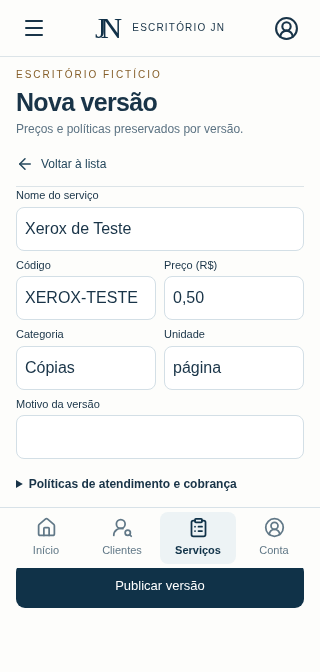
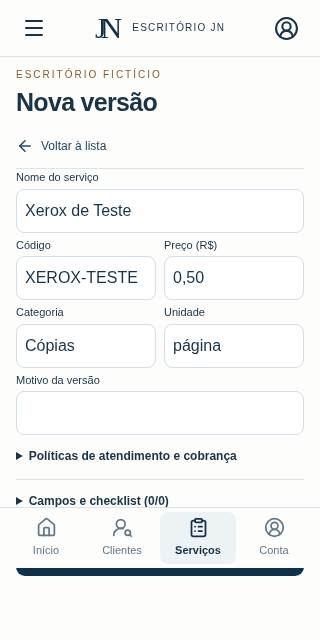
test: registrar validacao integrada e visual da etapa 09

diff --git a/tests/browser/services-public.spec.ts b/tests/browser/services-public.spec.ts
@@ -1,0 +1,12 @@
+import { test, expect } from '@playwright/test';
+
+for(const width of [360,1440])test(`catálogo09 público: rota direta exige login em ${width}px`,async({page})=>{
+ await page.setViewportSize({width,height:width===360?640:900});
+ await page.goto('/servicos');await expect(page).toHaveURL(/\/login(?:\?|$)/);await expect(page.getByLabel('E-mail',{exact:true})).toBeVisible();
+ await expect(page.getByText(/Carregando|Salvando|Aguarde/)).toHaveCount(0);
+ await page.reload();await expect(page).toHaveURL(/\/login(?:\?|$)/);await expect(page.getByLabel('Senha',{exact:true})).toBeVisible();
+});
+test('catálogo09 público: API existe e recusa busca anônima sem ler banco',async({request})=>{
+ const response=await request.post('/api/services/search',{data:{office_id:'11111111-1111-4111-8111-111111111111',query:'',page:1,size:3}});
+ expect(response.status()).toBe(401);expect((await response.json()).error.code).toBe('AUTH_REQUIRED');expect(response.headers()['cache-control']).toContain('no-store');
+});

diff --git a/docs/etapas/fecho-09.md b/docs/etapas/fecho-09.md
@@ -1,6 +1,6 @@
 # Etapa09 — catálogo de serviços, preços e políticas
 
-20/10/2026. Checkpoint: implementação concluída, validação/entrega em andamento. Publicação09 ainda não comprovada. Referências: [cartão/contrato](etapa-09.md), [plano](plano-09.md), [atendimento](../regras/atendimento.md).
+20/10/2026. Checkpoint: implementação e validação local concluídas, entrega em andamento. Publicação09 ainda não comprovada. Referências: [cartão/contrato](etapa-09.md), [plano](plano-09.md), [atendimento](../regras/atendimento.md).
 
 `/servicos` oferece busca paginada3/5, cadastro, publicação de versões, histórico e simulação. Código único por escritório; versão inteira conserva preço em centavos, categoria/unidade, campos/checklist, pessoa/participantes, aprovação/assinatura/quitação, quantidades e políticas de ajuste. Vigência imediata ou futura, sem retroagir/substituir versão. UPDATE/DELETE de versões negados; alteração não recalcula snapshots anteriores.
 
@@ -12,12 +12,14 @@ UI reaproveita shell/cores/tipografia/sidebar e até4atalhos móveis incluindo I
 
 ## Evidências e revisão
 
-- 70Node/API, typecheck e build frontend/servidor passaram no checkpoint; última mudança de CSS ainda em verificação visual final.
+- 70Node/API, typecheck e build frontend/servidor passaram após as alterações.
 - 958SQL (479×2), instalação vazia/migrador sem super/BYPASSRLS, grants/RLS, imutabilidade, vigência futura, arredondamento, quantidade/capacidades, versão obsoleta, rollback de auditoria e corridas de revogação/fronteira de vigência passaram.
-- Auth09 real local3 passou: navegador→Express→GoTrue/PostgREST→SQL, contrato com campos/participantes e funcionário restrito. Regressão final com gestão/operação/renovação em execução.
-- UI09 inicial9 passou; novas regressões de precisão, chaves, isolamento e densidade em validação. Sobreposição acidental de servidores/traces foi interrompida; não contar execuções interrompidas como sucesso. Um seletor de label com opções nativas foi corrigido para combobox acessível.
+- Auth09 real local3 passou: navegador→Express→GoTrue/PostgREST→SQL, contrato com campos/participantes e funcionário restrito. Regressão de22cenários com gestão/operação/quatroperfis/renovação aprovada:21na bateria e1convite SMTP repetido isoladamente após exceder o prazo inicial. Apenas Mailpit local; nenhum e-mail externo.
+- 13UI09 passaram, incluindo precisão, chaves, isolamento, zoom, altura reduzida e densidade. Lista cabe nas quatro larguras; formulário padrão cabe360×640/768×1024/1440×900,320×568 pode exigir rolagem natural curta. Sobreposição acidental de servidores/traces foi interrompida; não contar execuções interrompidas como sucesso. Um seletor de label com opções nativas foi corrigido para combobox acessível.
+- Regressão UI completa:125/127na primeira execução;2casos de vínculos08 passaram na repetição isolada após estabilizar o laboratório. Um deles registrou ERR_NETWORK_CHANGED durante criação/limpeza de rede Docker; não alterar produto para mascarar essa interferência. Total127cenários verificados.
 - Revisão independente identificou2P2 e uma chave de campo classificada inicialmente menor. Esta foi elevada aP2 por bloquear uma sequência válida de edição; os três pontos foram corrigidos com reproduções. [Registro](../evidencias/etapa-09/revisao.json).
 - [Benchmark](../evidencias/etapa-09/benchmark.json):10mil serviços fictícios adicionais,10conexões/300amostras SQL locais; p95 lista772,405ms/detalhe80,669ms/cotação92,883ms. Navegadores/regressões também ativos; não mede rede/API/produção, não éSLA nem promessa de latência zero.
+- 37E2E públicos locais aprovados:36na bateria e1retorno direto360px repetido isoladamente após atraso inicial;3casos novos comprovam `/servicos`→login/reload e API anônima401. [Provas locais](../evidencias/etapa-09/validacao.json).
 - Dependências de produção:0vulnerabilidades. Não há script lint; TypeScript, testes e diff-check são as verificações disponíveis.
 
 ## Entrega e limites
@@ -26,4 +28,4 @@ Autorização técnica permanente documentada nos fechos06/07 e PLUGINS aplica-s
 
 Supabase de destino: `mcsuoxnubpqenyvbefee`, baseline10migrations/5Auth/5vínculos/1ficha/1contato/1origem, services ausente. Migration nova preparada/testada, ainda não aplicada neste checkpoint. GitHub/Vercel de destino preservados. Provas de commit/PR/deploy, migração/readback e HTTP serão registradas após as operações concluírem.
 
-Rollback: desativar descoberta do catálogo por código mantendo tabelas/versões/auditoria; não DROP/reset e não recalcular itens. Etapa10 somente com novo pedido. Status atual: BLOQUEADA para conclusão pública enquanto validações/entrega finais não terminarem.
+Rollback: desativar descoberta do catálogo por código mantendo tabelas/versões/auditoria; não DROP/reset e não recalcular itens. Etapa10 somente com novo pedido. Status local: APROVÁVEL. Entrega pública permanece pendente até Git/Vercel e migration/readback concluírem.

diff --git a/docs/etapas/plano-09.md b/docs/etapas/plano-09.md
@@ -4,21 +4,21 @@ Objetivo: executar [contrato09](etapa-09.md), com React/Vite, Express e Supabase
 
 ## 1. Dados e API
 
-- [ ] Escrever testes API/SQL para catálogo ausente, anônimo, payload inválido, R$0,50/R$100,00, nova versão e snapshot anterior. Executar e registrar RED.
-- [ ] Criar migration incremental via CLI: `services`, `service_versions`, funções privadas de validação/autoridade/cálculo; wrappers invoker e grants mínimos. Ampliar catálogo de capacidades da gestão sem conceder a funcionários.
-- [ ] Criar `shared/services.ts`, `server/modules/services/{router,dto,validation}.ts`; montar `/api/services` em `server/app.ts`. Entradas: search/detail/create/version/quote; saída tipada com erros seguros. Publicação exige versão esperada e motivo.
-- [ ] Executar Node/API e dois replays SQL limitados. Acrescentar caso de concorrência entre publicação/revogação e rollback da auditoria.
+- [x] Escrever testes API/SQL para catálogo ausente, anônimo, payload inválido, R$0,50/R$100,00, nova versão e snapshot anterior. Executar e registrar RED.
+- [x] Criar migration incremental via CLI: `services`, `service_versions`, funções privadas de validação/autoridade/cálculo; wrappers invoker e grants mínimos. Ampliar catálogo de capacidades da gestão sem conceder a funcionários.
+- [x] Criar `shared/services.ts`, `server/modules/services/{router,dto,validation}.ts`; montar `/api/services` em `server/app.ts`. Entradas: search/detail/create/version/quote; saída tipada com erros seguros. Publicação exige versão esperada e motivo.
+- [x] Executar Node/API e dois replays SQL limitados. Acrescentar caso de concorrência entre publicação/revogação e rollback da auditoria.
 
 ## 2. Frontend
 
-- [ ] Testar entrada visível, vazio, formulário, histórico, simulação, permissões e ausência de loaders antes de implementar.
-- [ ] Criar `src/features/services/{api,ServicesPage,ServiceForm,ServiceDetail,services.css}` e integrar rota/menu/ícone. Reutilizar transporte autenticado/cancelamento, OperationLayout e estilos globais.
-- [ ] Em 320/360/768/1440, verificar menu≤4, inputs16/alvos44, rolagem natural, erros e respostas tardias. Cotação é simulação identificada; não cria pedido nem cobrança.
+- [x] Testar entrada visível, vazio, formulário, histórico, simulação, permissões e ausência de loaders antes de implementar.
+- [x] Criar `src/features/services/{api,ServicesPage,ServiceForm,ServiceDetail,services.css}` e integrar rota/menu/ícone. Reutilizar transporte autenticado/cancelamento, OperationLayout e estilos globais.
+- [x] Em 320/360/768/1440, verificar menu≤4, inputs16/alvos44, rolagem natural, erros e respostas tardias. Cotação é simulação identificada; não cria pedido nem cobrança.
 
 ## 3. Integração e entrega
 
-- [ ] Testar jornada real local Auth→API→PostgREST→banco, revogação e histórico. Medir chamadas/duração e consulta indexada sem alegar latência zero.
-- [ ] Typecheck, build, regressões pertinentes e dependências de produção. Revisão independente da branch, corrigir achados relevantes com regressão.
+- [x] Testar jornada real local Auth→API→PostgREST→banco, revogação e histórico. Medir chamadas/duração e consulta indexada sem alegar latência zero.
+- [x] Typecheck, build, regressões pertinentes e dependências de produção. Revisão independente da branch, corrigir achados relevantes com regressão.
 - [ ] Atualizar Livro/fecho/provas, commit/push da branch e PR. Conferir integração Git→Vercel/preview disponível. Aplicar migration aditiva e publicar tecnicamente via Git conforme autorização permanente documentada e pedido09; registrar bloqueio externo sem alegar publicação.
 
 Focos de revisão: versão futura e fronteira de vigência; números fracionários/overflow/arredondamento; capacidade retirada durante espera; resposta de sessão antiga; política/cotação não permitindo alterar histórico nem burlar aprovação/quitação.

diff --git a/LIVRO_RAIZ.md b/LIVRO_RAIZ.md
@@ -1,6 +1,6 @@
 # Livro Raiz — Escritório JN
 
-- **Checkpoint09 — implementação e revisão final:** catálogo versionado em `/servicos`, API/SQL ligados e políticas de atendimento/cobrança. 70Node/API e958SQL locais passaram; Auth09 real local3 passou; regressões finais de UI/Auth em execução. [Contrato](docs/etapas/etapa-09.md), [plano](docs/etapas/plano-09.md), [fecho](docs/etapas/fecho-09.md). Publicação09 ainda não comprovada neste checkpoint;08 abaixo continua versão hospedada vigente. Actions desativado; entregar exclusivamente por GitHub→Vercel.
+- **Checkpoint09 — implementação e revisão final:** catálogo versionado em `/servicos`, API/SQL ligados e políticas de atendimento/cobrança. 70Node/API,958SQL,127contratosUI,22Auth reais locais selecionados e37E2E públicos locais aprovados, com repetições isoladas registradas no fecho. PR18/previewVercelReady, aguardando integração/publicação09. [Contrato](docs/etapas/etapa-09.md), [plano](docs/etapas/plano-09.md), [fecho](docs/etapas/fecho-09.md). Publicação09 ainda não comprovada neste checkpoint;08 abaixo continua versão hospedada vigente. Actions desativado; entregar exclusivamente por GitHub→Vercel.
 
 - **Atual — Etapa08 concluída, integrada e publicada:** https://escritoriojn.vercel.app/. [PR16](https://github.com/escritoriojnsistema/escritoriojn/pull/16), featureb843cfb, merge98109897641e1401e51f2e0645436c6ea7f961f9; árvore73616102a7f5427d813fba019da4283104e8c08f idêntica à validada. Clientes→ficha→Vínculos: atribuição/revogação, representação com evidência/vigência, conferência humana e mesclagem com prévia/versões/trilha/snapshots. Não transfere autoridade nem ativa portal. [Fecho](docs/etapas/fecho-08.md), [contrato](docs/etapas/contrato-08.md), [prova](docs/evidencias/etapa-08/publicacao.json).
 - **Banco e provas08:** migration20261020182035_customer_relationships_identity_merge aplicada, SHA25664332c2962940b45fbcd30f389831dbbf8729bfe53104070cd08b11d12175985 igual ao SQL armazenado.10migrations/5Auth/4confirmadas/5memberships/1ficha/1contato/1origem pending preservados;0fixtures hospedadas.5RPCs/ACL/RLS/helper e3capacidades seedowner conferidos.65Node/API,880SQL440×2 com corridas,68Auth reais locais,114contratosUI, typecheck/build e auditprodução0vulnerabilidades aprovados. Revisões independentes PASS; nomes legados e seleção de merge corrigidos. Até4atalhos,320/360/768/1440, zoom/altura reduzida e rolagem natural. Benchmark10mil/10conexões: p95 busca733,097ms/estado60,146ms/candidatos613,619ms, somente laboratório.

diff --git a/docs/PLUGINS.md b/docs/PLUGINS.md
@@ -41,3 +41,5 @@ Etapa05: inventário por Plugin Management reconfirmou Drive, Supabase, GitHub e
 Ajuste operação/mobile05: reutilizadas as habilidades de frontend-responsivo, orquestração, Auth/permissões, testes, revisão e continuidade já consultadas; Superpowers orientou reprodução RED/GREEN e revisão independente. Catálogo/conexões pertinentes preservados. GitHub/Vercel entregam o ajuste; Supabase somente leitura de saúde e totais, sem DDL, contas ou SMTP. Sem nova instalação ou envio de dados reais a design/analytics; React+Vite mantido.
 
 Etapa07: Drive forneceu cartão07 e regras/clientes; diagnóstico confirmou ausência prévia do módulo e base móvel/sem loaders existente. Aplicadas habilidades pertinentes de orquestração/diagnóstico, frontend, backend, banco, segurança, revisão/CI, auditoria e continuidade; Supabase orientou RLS/ACL/RPC e changelogPG17.11. Superpowers orientou RED/GREEN, implementação independente e revisão sem achados P1/P2; React Best Practices revisou componentes. Docker prova SQL/Auth/REST/SMTP sintéticos; capturas não contêm dados reais. GitHub/Vercel seguem autorização técnica documentada em fecho06 e escopo integral do pedido07; conector Vercel do time continua403, sem contorno de proteção. Sem instalar serviços ou ativar PWA/pagamentos/analytics.
+
+Etapa09: Drive forneceu cartão09 e tópico catálogo/atendimento. Aplicadas orquestração/diagnóstico/especificação, banco Supabase/RLS, backend, frontend responsivo, testes, segurança, GitHub/publicação e continuidade; Supabase forneceu documentação atual de funções/ACL e React Best Practices orientou a revisão. Revisão independente encontrou vigência após lock, precisão monetária e geração de chaves, corrigidas com regressões. Somente dados fictícios locais nas capturas e laboratórios; nenhuma informação real enviada a MagicPath/Figma/analytics. A carteira de17 habilidades permanece referência; nenhum plugin/serviço foi instalado por contagem. Actions desativado e publicação exclusivamente GitHub→Vercel, conforme usuário; autorização técnica anterior preservada pelo pedido09. Sem PWA, pagamentos ou recursos de etapas futuras.
